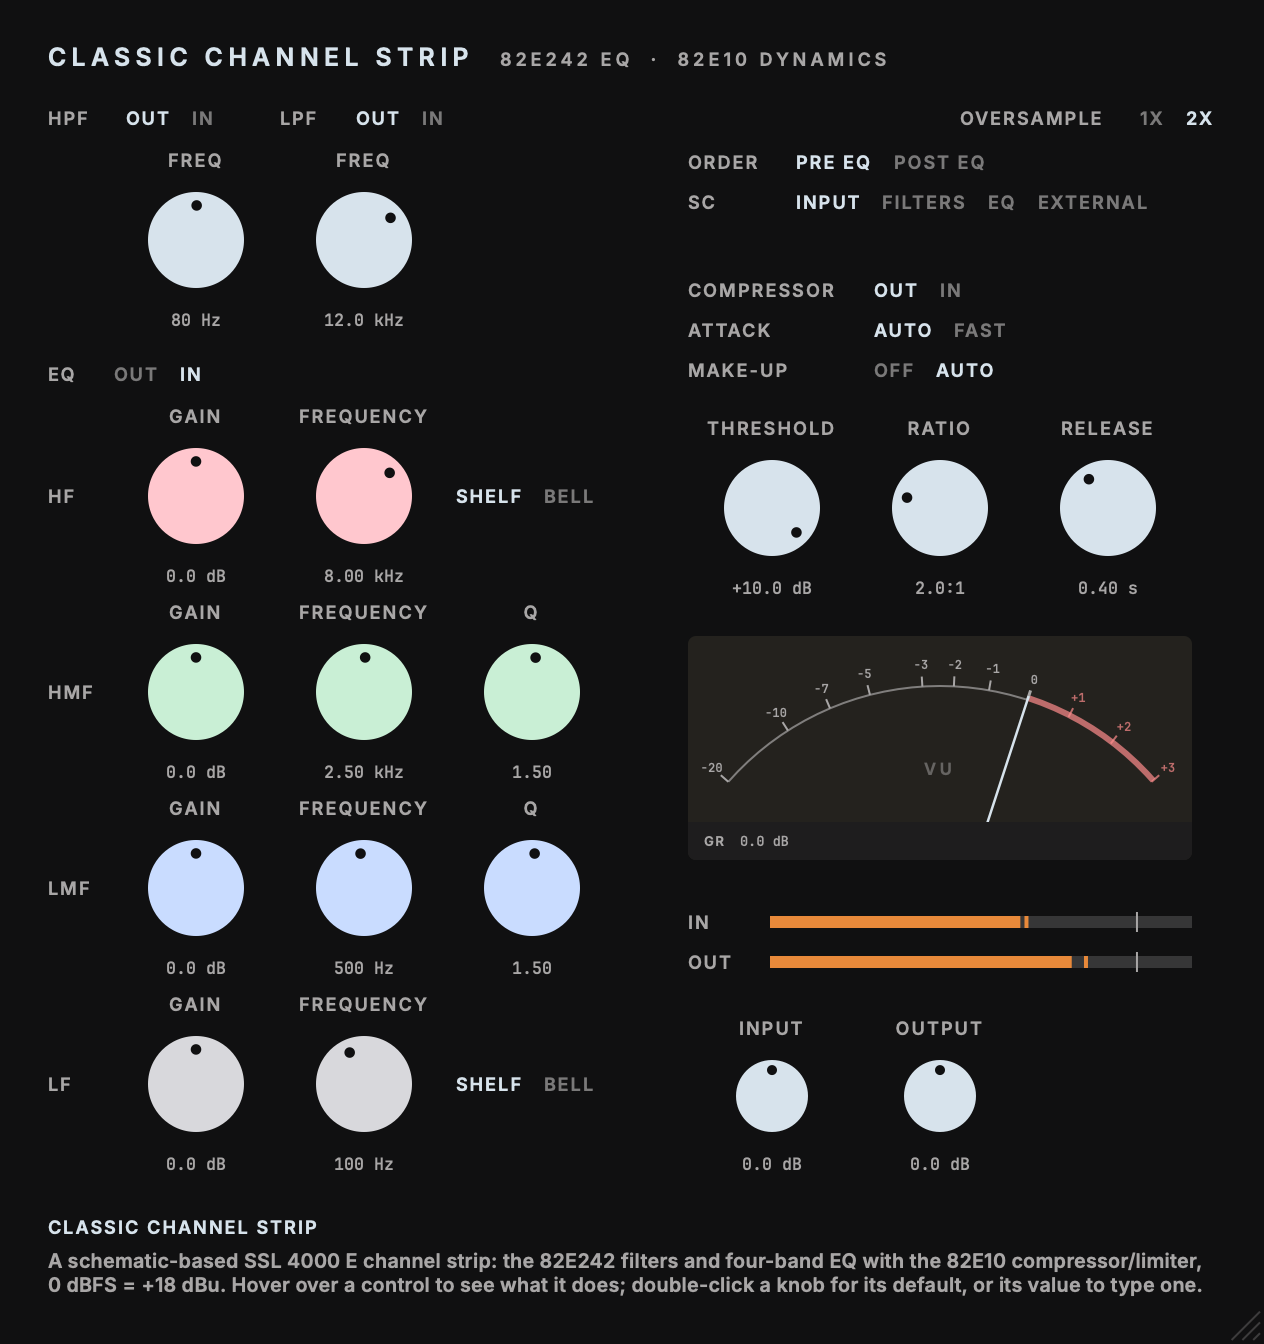
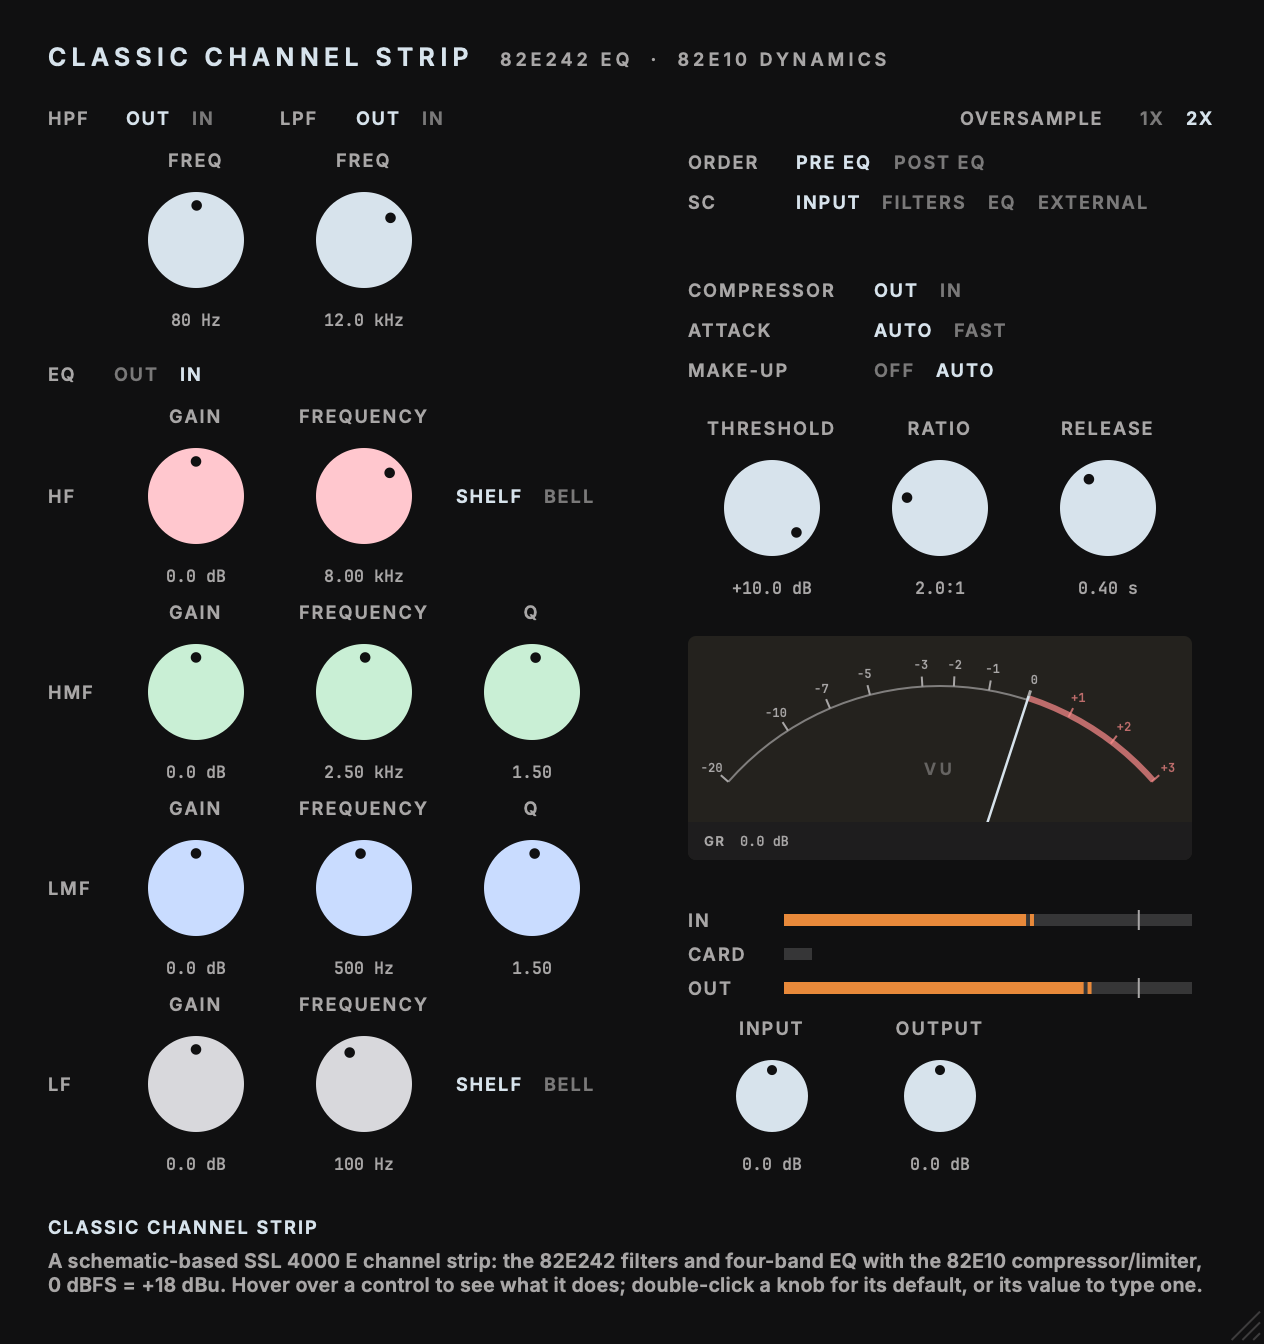
Sync the plugins page with plugin-dev
Add Transient1 v0.1.0. Move Classic Channel Strip and Classic Bus
Compressor back to Published at v0.2.0 with their new screenshots.
Remove Stressor, whose public release was retired.

Changed region(s): [[0.5554, 0.6562, 0.9565, 0.75]]

diff --git a/_pages/plugins.md b/_pages/plugins.md
@@ -102,14 +102,28 @@ permalink: /plugins/
         </ul>
         </div>
       </li>
-    </ul>
-  </section>
 
-  <section class="block">
-    <h2 class="t-title block__title">Legacy</h2>
-    <p class="plugin__body" style="margin-bottom: 32px;">Older hardware-inspired experiments. Some use detailed circuit models, and the collection is too CPU-heavy for everyday sessions, so I am keeping them here as-is.</p>
-
-    <ul class="plugins">
+      <li class="plugin">
+        <a class="plugin__shot" href="https://github.com/chijenpeng/transient1" target="_blank" rel="noopener">
+          <img src="/images/plugins/transient1.png" width="560" height="428" alt="Transient1 editor">
+        </a>
+        <div class="plugin__text">
+        <div class="plugin__head">
+          <h3 class="t-title">Transient1</h3>
+          <span class="plugin__model t-label">· Transient shaper</span>
+        </div>
+        <p class="plugin__status status t-value">v0.1.0<span class="sep">|</span>AU<span class="sep">|</span>VST3<span class="sep">|</span>macOS universal<span class="sep">|</span>Windows x64</p>
+        <p class="plugin__body">A two-knob transient shaper: Attack and Sustain, in dB. No threshold to set, and a 1 ms look-ahead so the gain is in place before the hit.</p>
+        <ul class="opt-row t-label plugin__actions">
+          <li class="opt-label">Download</li>
+          <li><a href="https://github.com/chijenpeng/transient1/releases/download/v0.1.0/Transient1-0.1.0-macos-universal.zip">macOS</a></li>
+          <li><a href="https://github.com/chijenpeng/transient1/releases/download/v0.1.0/Transient1-0.1.0-windows-x64.zip">Windows</a></li>
+          <li class="rule" aria-hidden="true"></li>
+          <li class="opt-label">Source</li>
+          <li><a href="https://github.com/chijenpeng/transient1" target="_blank" rel="noopener">GitHub</a></li>
+        </ul>
+        </div>
+      </li>
 
       <li class="plugin">
         <a class="plugin__shot" href="https://github.com/chijenpeng/classic-channel-strip" target="_blank" rel="noopener">
@@ -120,12 +134,12 @@ permalink: /plugins/
           <h3 class="t-title">Classic Channel Strip</h3>
           <span class="plugin__model t-label">· SSL 4000 E channel</span>
         </div>
-        <p class="plugin__status status t-value">v0.1.0<span class="sep">|</span>AU<span class="sep">|</span>VST3<span class="sep">|</span>macOS universal<span class="sep">|</span>Windows x64</p>
+        <p class="plugin__status status t-value">v0.2.0<span class="sep">|</span>AU<span class="sep">|</span>VST3<span class="sep">|</span>macOS universal<span class="sep">|</span>Windows x64</p>
         <p class="plugin__body">Filters, four-band EQ, and compression inspired by the SSL 4000 E channel. Idk how to use the gate/expander so I just took it out.</p>
         <ul class="opt-row t-label plugin__actions">
           <li class="opt-label">Download</li>
-          <li><a href="https://github.com/chijenpeng/classic-channel-strip/releases/download/v0.1.0/classic-channel-strip-0.1.0-macos-universal.zip">macOS</a></li>
-          <li><a href="https://github.com/chijenpeng/classic-channel-strip/releases/download/v0.1.0/classic-channel-strip-0.1.0-windows-x64.zip">Windows</a></li>
+          <li><a href="https://github.com/chijenpeng/classic-channel-strip/releases/download/v0.2.0/classic-channel-strip-0.2.0-macos-universal.zip">macOS</a></li>
+          <li><a href="https://github.com/chijenpeng/classic-channel-strip/releases/download/v0.2.0/classic-channel-strip-0.2.0-windows-x64.zip">Windows</a></li>
           <li class="rule" aria-hidden="true"></li>
           <li class="opt-label">Source</li>
           <li><a href="https://github.com/chijenpeng/classic-channel-strip" target="_blank" rel="noopener">GitHub</a></li>
@@ -142,37 +156,45 @@ permalink: /plugins/
           <h3 class="t-title">Classic Bus Compressor</h3>
           <span class="plugin__model t-label">· SSL 4000 G bus compressor</span>
         </div>
-        <p class="plugin__status status t-value">v0.1.0<span class="sep">|</span>AU<span class="sep">|</span>VST3<span class="sep">|</span>macOS universal<span class="sep">|</span>Windows x64</p>
-        <p class="plugin__body">A stereo VCA bus compressor inspired by the SSL 4000 G bus compressor.</p>
+        <p class="plugin__status status t-value">v0.2.0<span class="sep">|</span>AU<span class="sep">|</span>VST3<span class="sep">|</span>macOS universal<span class="sep">|</span>Windows x64</p>
+        <p class="plugin__body">A stereo VCA bus compressor inspired by the SSL 4000 G bus compressor, with timing calibrated against a measured 1991 G384.</p>
         <ul class="opt-row t-label plugin__actions">
           <li class="opt-label">Download</li>
-          <li><a href="https://github.com/chijenpeng/classic-bus-compressor/releases/download/v0.1.0/classic-bus-compressor-0.1.0-macos-universal.zip">macOS</a></li>
-          <li><a href="https://github.com/chijenpeng/classic-bus-compressor/releases/download/v0.1.0/classic-bus-compressor-0.1.0-windows-x64.zip">Windows</a></li>
+          <li><a href="https://github.com/chijenpeng/classic-bus-compressor/releases/download/v0.2.0/classic-bus-compressor-0.2.0-macos-universal.zip">macOS</a></li>
+          <li><a href="https://github.com/chijenpeng/classic-bus-compressor/releases/download/v0.2.0/classic-bus-compressor-0.2.0-windows-x64.zip">Windows</a></li>
           <li class="rule" aria-hidden="true"></li>
           <li class="opt-label">Source</li>
           <li><a href="https://github.com/chijenpeng/classic-bus-compressor" target="_blank" rel="noopener">GitHub</a></li>
         </ul>
         </div>
       </li>
+    </ul>
+  </section>
+
+  <section class="block">
+    <h2 class="t-title block__title">Legacy</h2>
+    <p class="plugin__body" style="margin-bottom: 32px;">Older hardware-inspired experiments. Some use detailed circuit models, and the collection is too CPU-heavy for everyday sessions, so I am keeping them here as-is.</p>
+
+    <ul class="plugins">
 
       <li class="plugin">
-        <a class="plugin__shot" href="https://github.com/chijenpeng/stressor" target="_blank" rel="noopener">
-          <img src="/images/plugins/stressor.png" width="840" height="342" alt="Stressor editor">
+        <a class="plugin__shot" href="https://github.com/chijenpeng/1167" target="_blank" rel="noopener">
+          <img src="/images/plugins/1167.png" width="760" height="270" alt="1167 editor">
         </a>
         <div class="plugin__text">
         <div class="plugin__head">
-          <h3 class="t-title">Stressor</h3>
-          <span class="plugin__model t-label">· Empirical Labs Distressor</span>
+          <h3 class="t-title">1167</h3>
+          <span class="plugin__model t-label">· UREI 1176LN Rev F</span>
         </div>
         <p class="plugin__status status t-value">v0.1.0<span class="sep">|</span>AU<span class="sep">|</span>VST3<span class="sep">|</span>macOS universal<span class="sep">|</span>Windows x64</p>
-        <p class="plugin__body">A behavioral compressor inspired by the Empirical Labs Distressor. I can't find schematics, so it can't be coded from those.</p>
+        <p class="plugin__body">A component-level FET compressor model inspired by the UREI 1176LN Rev F.</p>
         <ul class="opt-row t-label plugin__actions">
           <li class="opt-label">Download</li>
-          <li><a href="https://github.com/chijenpeng/stressor/releases/download/v0.1.0/stressor-0.1.0-macos-universal.zip">macOS</a></li>
-          <li><a href="https://github.com/chijenpeng/stressor/releases/download/v0.1.0/stressor-0.1.0-windows-x64.zip">Windows</a></li>
+          <li><a href="https://github.com/chijenpeng/1167/releases/download/v0.1.0/1167-0.1.0-macos-universal.zip">macOS</a></li>
+          <li><a href="https://github.com/chijenpeng/1167/releases/download/v0.1.0/1167-0.1.0-windows-x64.zip">Windows</a></li>
           <li class="rule" aria-hidden="true"></li>
           <li class="opt-label">Source</li>
-          <li><a href="https://github.com/chijenpeng/stressor" target="_blank" rel="noopener">GitHub</a></li>
+          <li><a href="https://github.com/chijenpeng/1167" target="_blank" rel="noopener">GitHub</a></li>
         </ul>
         </div>
       </li>
@@ -198,29 +220,6 @@ permalink: /plugins/
         </ul>
         </div>
       </li>
-
-      <li class="plugin">
-        <a class="plugin__shot" href="https://github.com/chijenpeng/1167" target="_blank" rel="noopener">
-          <img src="/images/plugins/1167.png" width="760" height="270" alt="1167 editor">
-        </a>
-        <div class="plugin__text">
-        <div class="plugin__head">
-          <h3 class="t-title">1167</h3>
-          <span class="plugin__model t-label">· UREI 1176LN Rev F</span>
-        </div>
-        <p class="plugin__status status t-value">v0.1.0<span class="sep">|</span>AU<span class="sep">|</span>VST3<span class="sep">|</span>macOS universal<span class="sep">|</span>Windows x64</p>
-        <p class="plugin__body">A component-level FET compressor model inspired by the UREI 1176LN Rev F.</p>
-        <ul class="opt-row t-label plugin__actions">
-          <li class="opt-label">Download</li>
-          <li><a href="https://github.com/chijenpeng/1167/releases/download/v0.1.0/1167-0.1.0-macos-universal.zip">macOS</a></li>
-          <li><a href="https://github.com/chijenpeng/1167/releases/download/v0.1.0/1167-0.1.0-windows-x64.zip">Windows</a></li>
-          <li class="rule" aria-hidden="true"></li>
-          <li class="opt-label">Source</li>
-          <li><a href="https://github.com/chijenpeng/1167" target="_blank" rel="noopener">GitHub</a></li>
-        </ul>
-        </div>
-      </li>
-
 
       <li class="plugin">
         <a class="plugin__shot" href="https://github.com/chijenpeng/tuna-tuner" target="_blank" rel="noopener">
